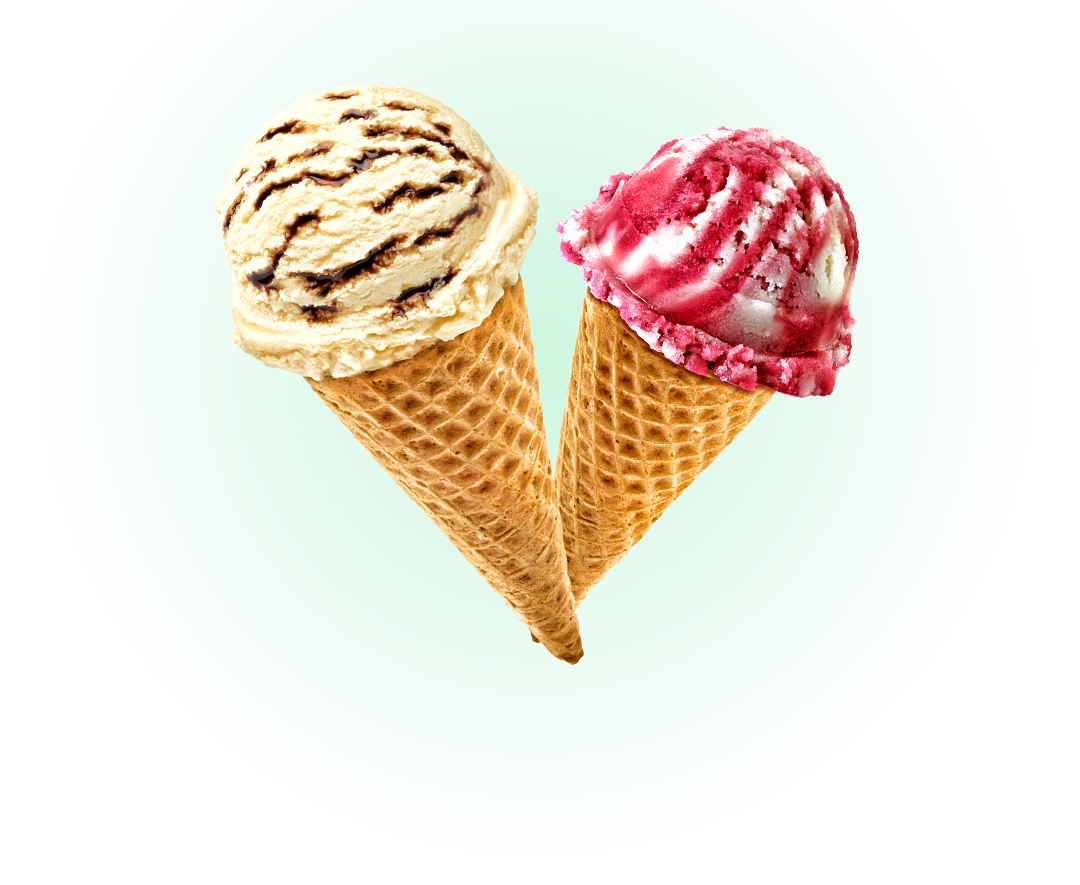
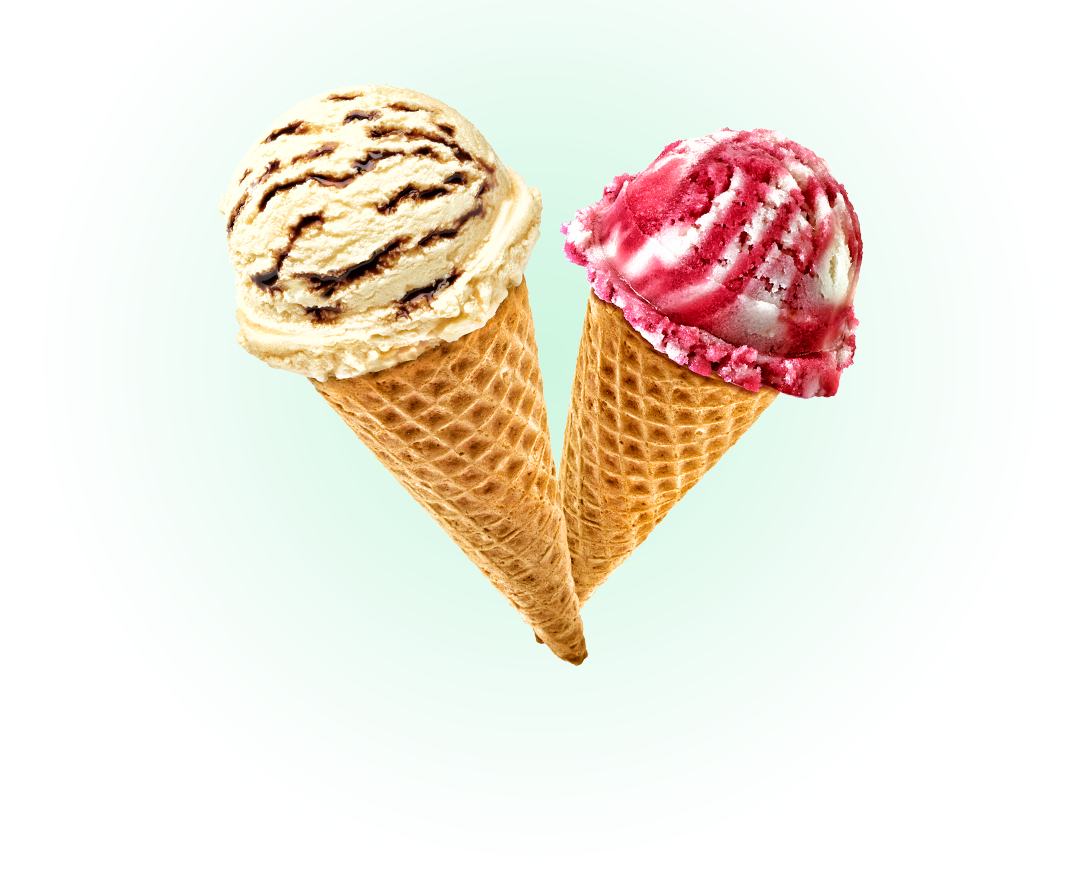
Slider update. New images and FULL css

Changed region(s): [[0.1833, 0.0915, 0.825, 0.7627]]

diff --git a/src/common.blocks/slider.scss b/src/common.blocks/slider.scss
@@ -1,4 +1,5 @@
 $ctrlBtnBorder: rgb(255, 255, 255);
+$hoverCtrlBtnBg: rgba(255, 255, 255, 0.4);
 
 .slider {
   position: relative;
@@ -34,10 +35,27 @@ $ctrlBtnBorder: rgb(255, 255, 255);
     text-align: center;
   }
 
+  &__button {
+    position: absolute;
+    bottom: 2px;
+    left: 50%;
+    z-index: 10;
+
+    width: 280px;
+    min-height: 64px;
+    margin-left: -140px;
+
+    font-size: 2rem;
+    line-height: 2;
+    text-shadow: 0 2px 5px rgba(160, 32, 11, 0.76);
+
+    border-radius: 32px;
+  }
+
   &__control-list {
     position: absolute;
-    bottom: 25px;
-    left: 0;
+    bottom: 23px;
+    left: 2.25%;
 
     display: flex;
   }
@@ -48,22 +66,6 @@ $ctrlBtnBorder: rgb(255, 255, 255);
     }
   }
 
-  &__button {
-    position: absolute;
-    bottom: 1px;
-    left: 50%;
-    z-index: 10;
-
-    width: 280px;
-    min-height: 64px;
-    margin-left: -140px;
-
-    font-size: 2rem;
-    line-height: 2;
-
-    border-radius: 28px;
-  }
-
   &__control-btn {
     width: 21px;
     height: 21px;
@@ -72,5 +74,9 @@ $ctrlBtnBorder: rgb(255, 255, 255);
 
     border: 2px solid $ctrlBtnBorder;
     border-radius: 50%;
+
+    &:hover {
+      background-color: $hoverCtrlBtnBg;
+    }
   }
 }

diff --git a/src/css/style.scss b/src/css/style.scss
@@ -9,7 +9,7 @@
 
 @import '../common.blocks/page-header.scss';
 
-@import '../common.blocks/page-content.scss';
+@import '../common.blocks/page-main.scss';
 @import '../common.blocks/slider.scss';
 
 @import '../common.blocks/page-footer.scss';

diff --git a/src/css/main-config/init.scss b/src/css/main-config/init.scss
@@ -3,7 +3,6 @@ $fontFamily: "Roboto", "Georgia", sans-serif;
 body,
 html {
   box-sizing: border-box;
-  min-width: 900px;
   margin: 0;
   padding: 0;
 

diff --git a/src/css/main-config/container.scss b/src/css/main-config/container.scss
@@ -2,4 +2,5 @@
   min-width: 900px;
   max-width: 1200px;
   margin: 0 auto;
+  background: url("../img/ice-background--1.png") center top no-repeat;
 }

diff --git a/src/common.blocks/page-main.scss b/src/common.blocks/page-main.scss
@@ -1,1 +1,5 @@
 .page-main {
+  &__presentation {
+    margin-bottom: 39px;
+  }
+
